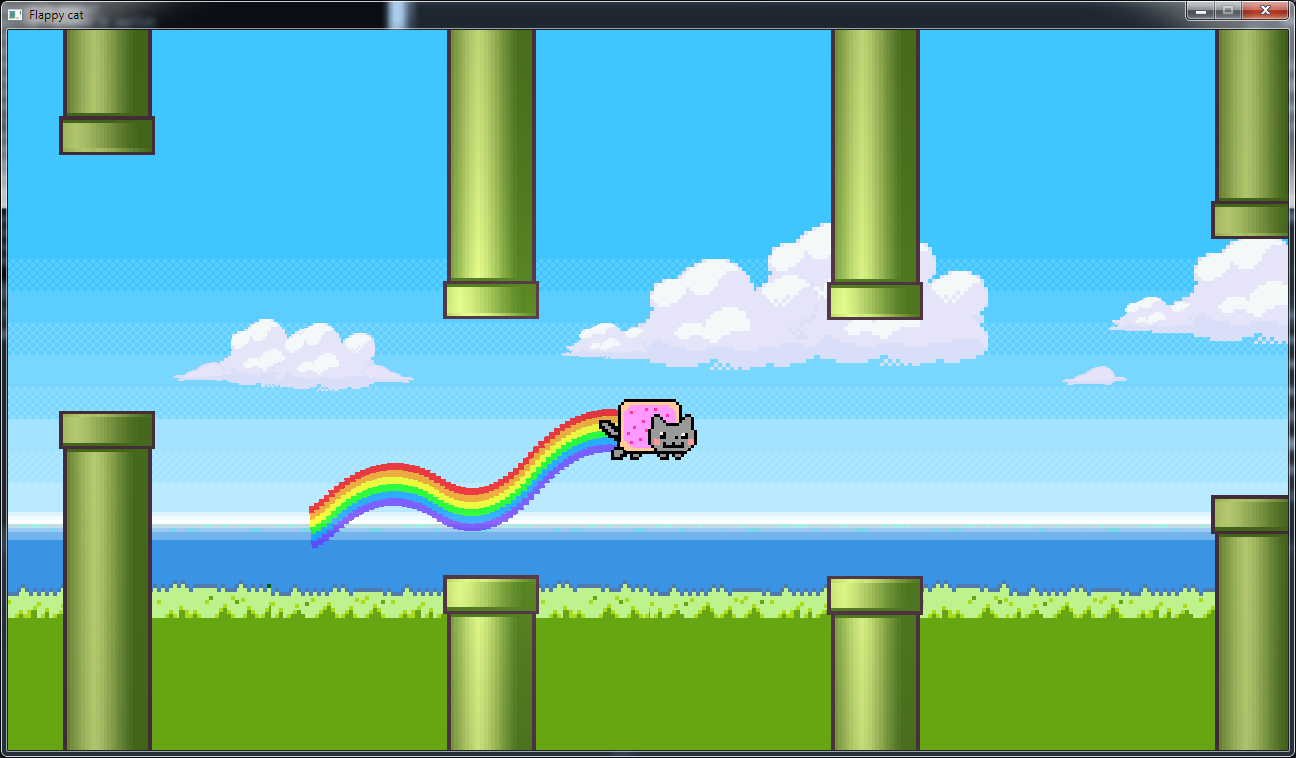
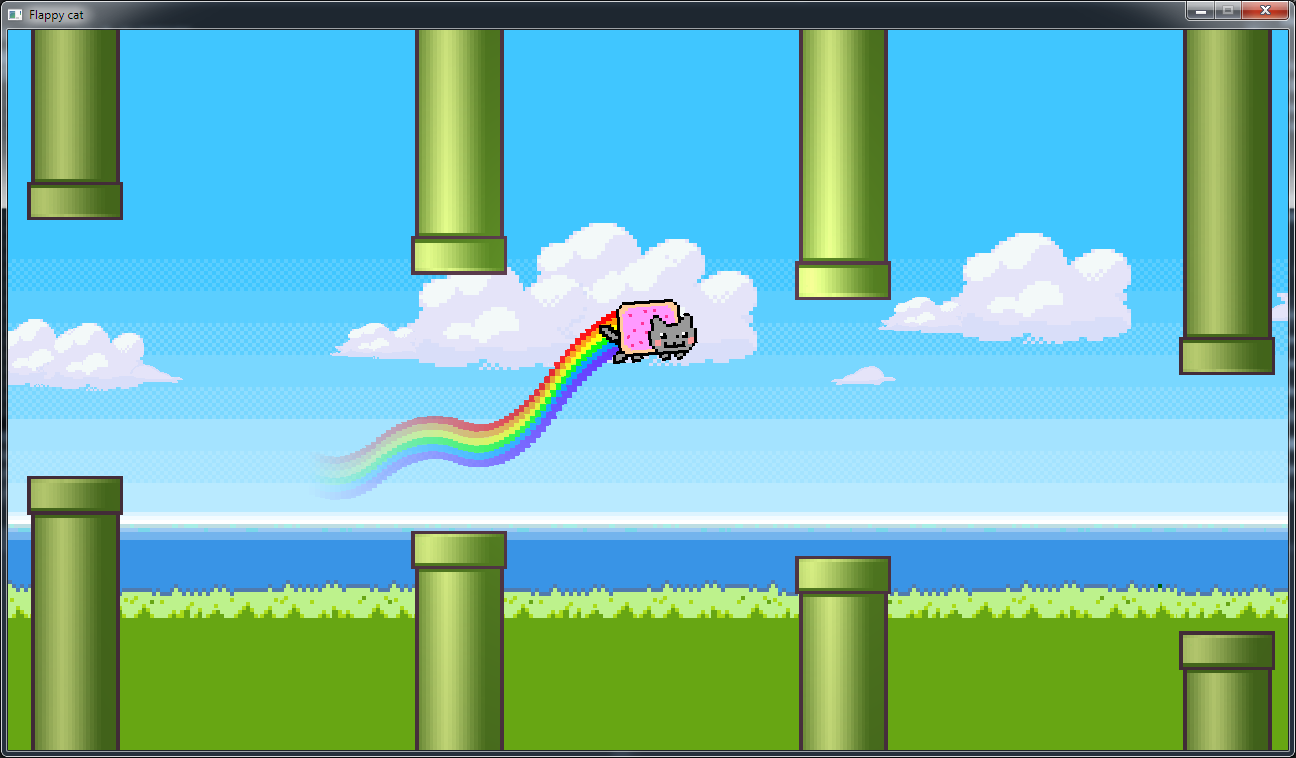
add variable opacity to tail

diff --git a/flappy_bird/src/level/tail.cpp b/flappy_bird/src/level/tail.cpp
@@ -11,8 +11,7 @@
 
 Tail::Tail() :
 	m_updIndex(0),
-	m_y(utils::arrays::make_array_n<ELEMENTS>(0.0f)),
-	m_angle(utils::arrays::make_array_n<ELEMENTS>(0.0f)),
+	m_chunks(utils::arrays::make_array_n<ELEMENTS>(Chunk{ 0.0f, 0.0f })),
 	m_mesh(true, 6),
 	m_texture("res/images/tail.png"),
 	m_shader("res/shaders/tail.vert.shader", "res/shaders/tail.frag.shader")
@@ -58,26 +57,29 @@ Tail::Tail() :
 void Tail::update(float y, float angle)
 {
 	m_updIndex = (m_updIndex + 1) % ELEMENTS;
-	m_y[m_updIndex] = y;
-	m_angle[m_updIndex] = angle * 0.33f;
+	m_chunks[m_updIndex] = Chunk{ y, angle * 0.33f };
 }
 
 void Tail::render()
 {
-	using namespace glm;
-
 	m_mesh.bind();
 	m_texture.bind();
 	m_shader.bind();
 
+	using namespace glm;
+	mat4 init = translate(mat4(1.0f), vec3(-Cat::WIDTH * 0.3f, 0.0f, 0.0f));
+
 	for (auto i = 0; i < ELEMENTS; i++)
 	{
-		auto index = (m_updIndex + (ELEMENTS - i)) % ELEMENTS;
+		/* This index is used to traverse chunks in a reverse historical order 
+		   (from the most recent records to the oldest ones.*/
+		auto j = (m_updIndex + (ELEMENTS - i)) % ELEMENTS;
+		Chunk& chunk = m_chunks[j];
 
-		mat4 transform(1.0f);
-		transform = translate(transform, vec3(-Cat::WIDTH / 3.2f - 0.08f * i, m_y[index], 0.0f));
-		transform = rotate(transform, radians(m_angle[index]), vec3(0.0f, 0.0f, 1.0f));
+		mat4 transform = translate(init, vec3(-0.08f * i, chunk.y, 0.0f));
+		transform = rotate(transform, radians(chunk.angle), vec3(0.0f, 0.0f, 1.0f));
 		m_shader.setUniformMat4f("u_modelMatrix", transform);
+		m_shader.setUniform1f("u_alpha", (ELEMENTS - i * 1.0f) / ELEMENTS);
 		m_mesh.draw();
 	}
 }
@@ -85,6 +87,5 @@ void Tail::render()
 void Tail::reset()
 {
 	m_updIndex = 0;
-	m_y = utils::arrays::make_array_n<ELEMENTS>(0.0f);
-	m_angle = utils::arrays::make_array_n<ELEMENTS>(0.0f);
+	m_chunks = utils::arrays::make_array_n<ELEMENTS>(Chunk{ 0.0f, 0.0f });
 }

diff --git a/flappy_bird/src/level/tail.h b/flappy_bird/src/level/tail.h
@@ -8,14 +8,18 @@
 
 #include <array>
 
+struct Chunk
+{
+	float y, angle;
+};
+
 class Tail
 {
 private:
 	static constexpr char ELEMENTS = 60;
 
 	unsigned int m_updIndex;
-	std::array<float, ELEMENTS> m_y;
-	std::array<float, ELEMENTS> m_angle;
+	std::array<Chunk, ELEMENTS> m_chunks;
 	VertexArray m_mesh;
 	Texture m_texture;
 	Shader m_shader;
